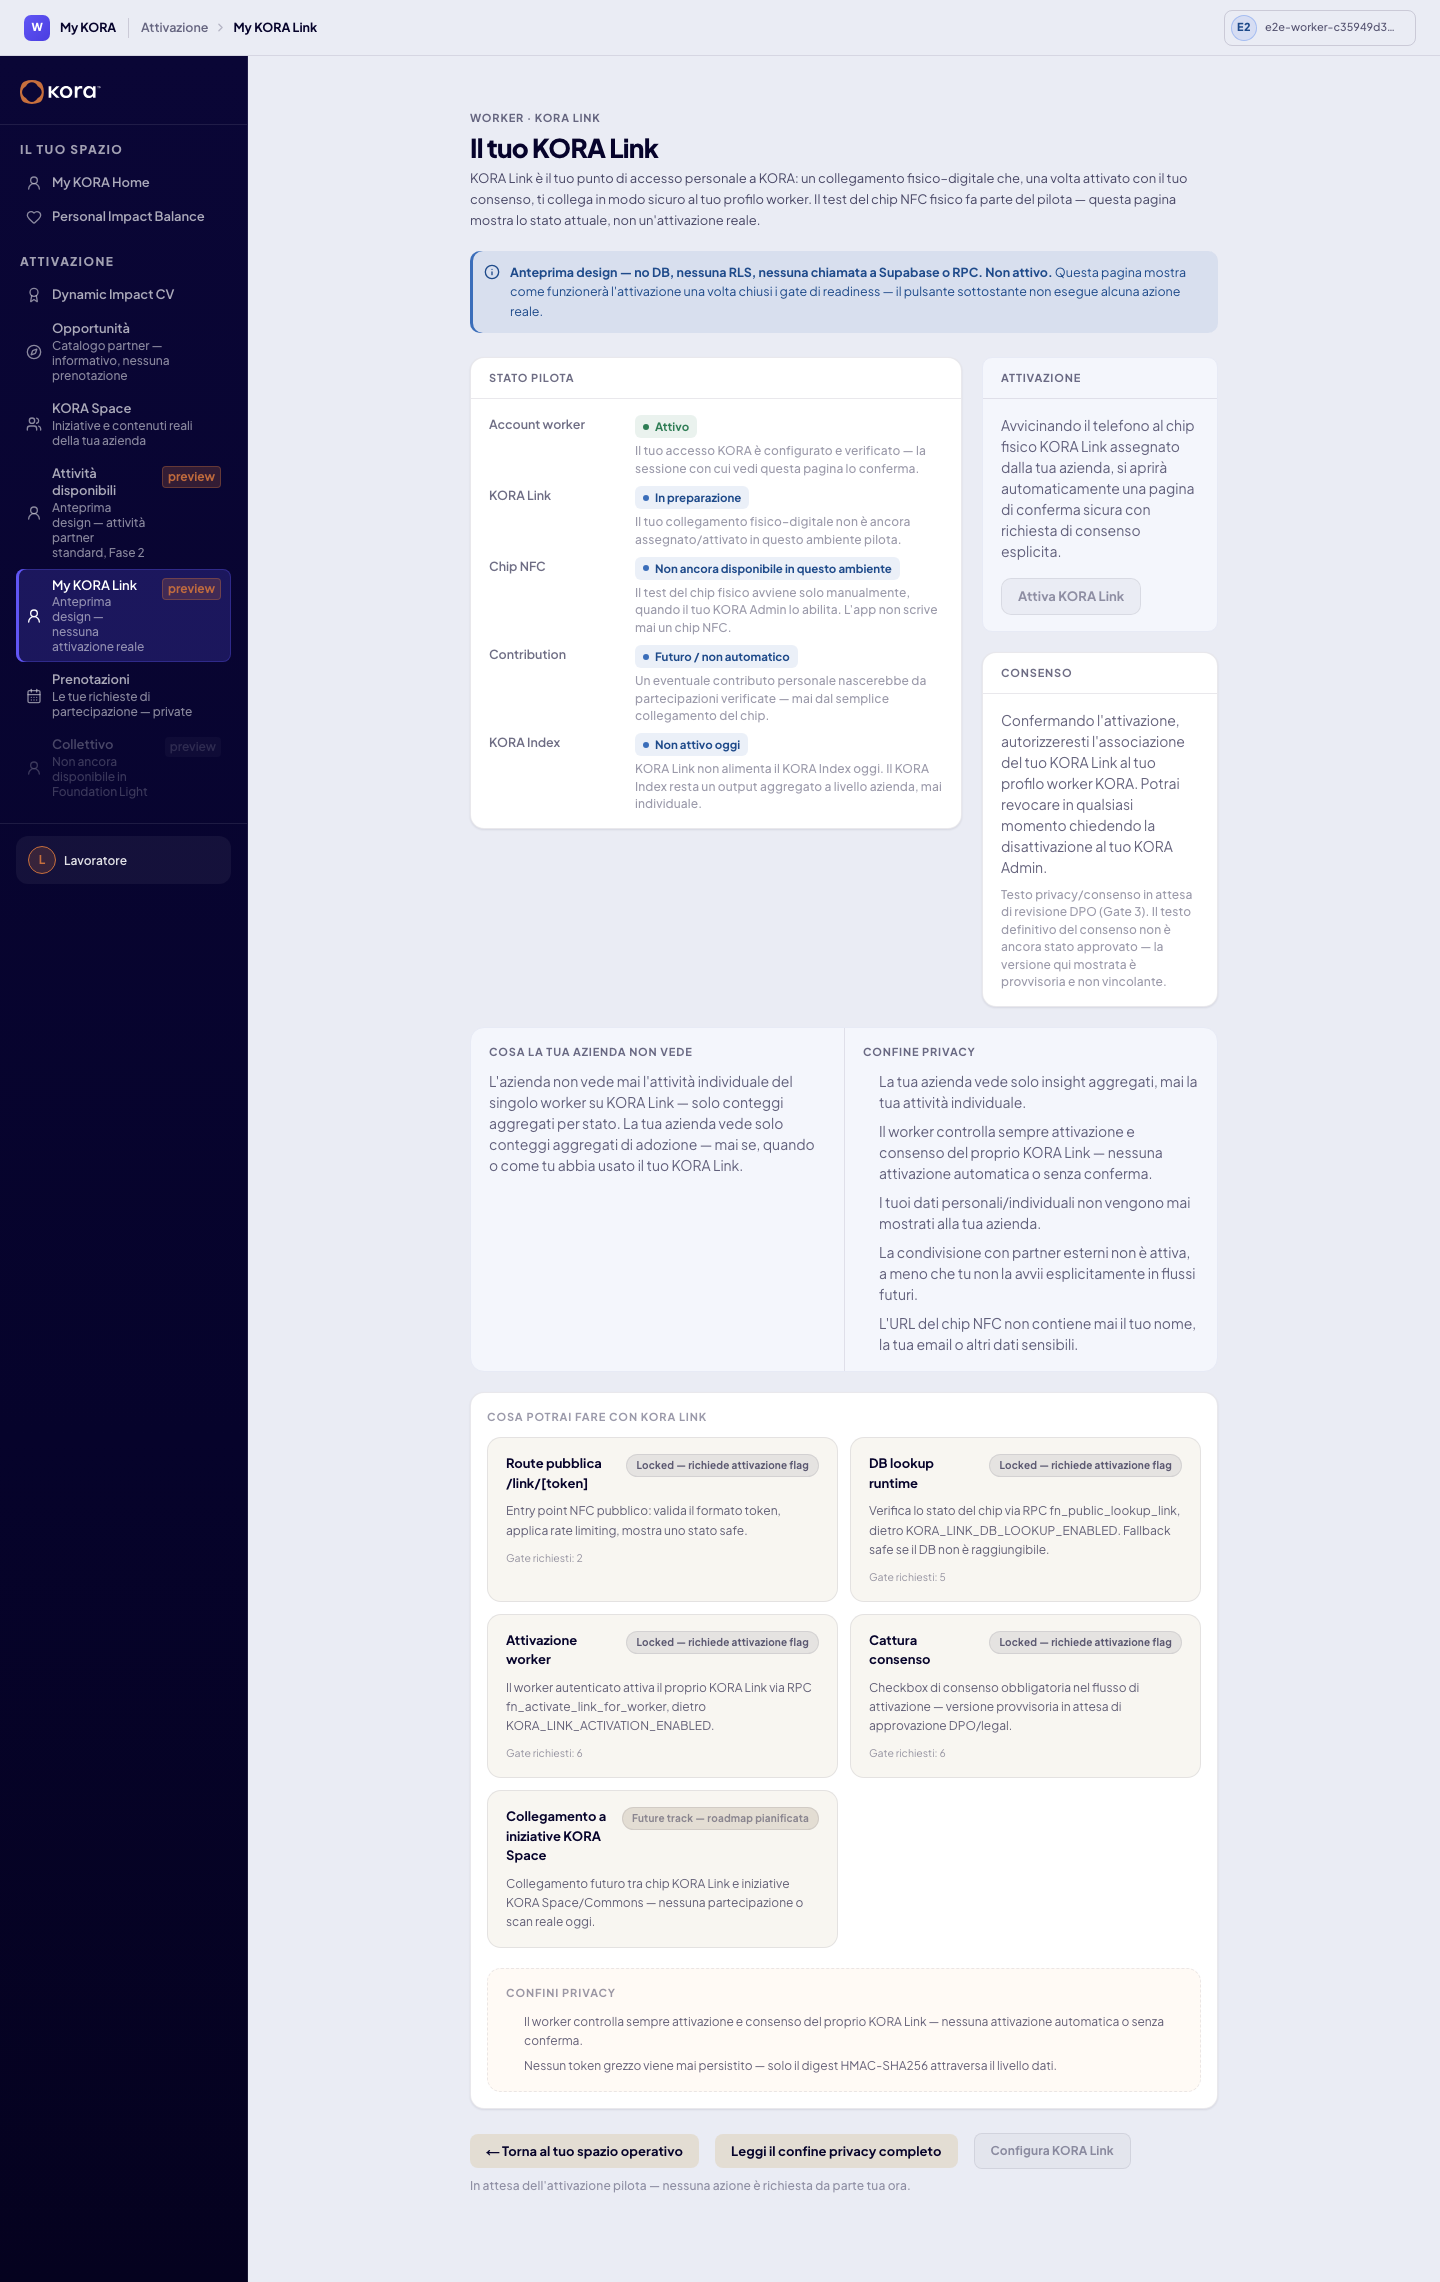
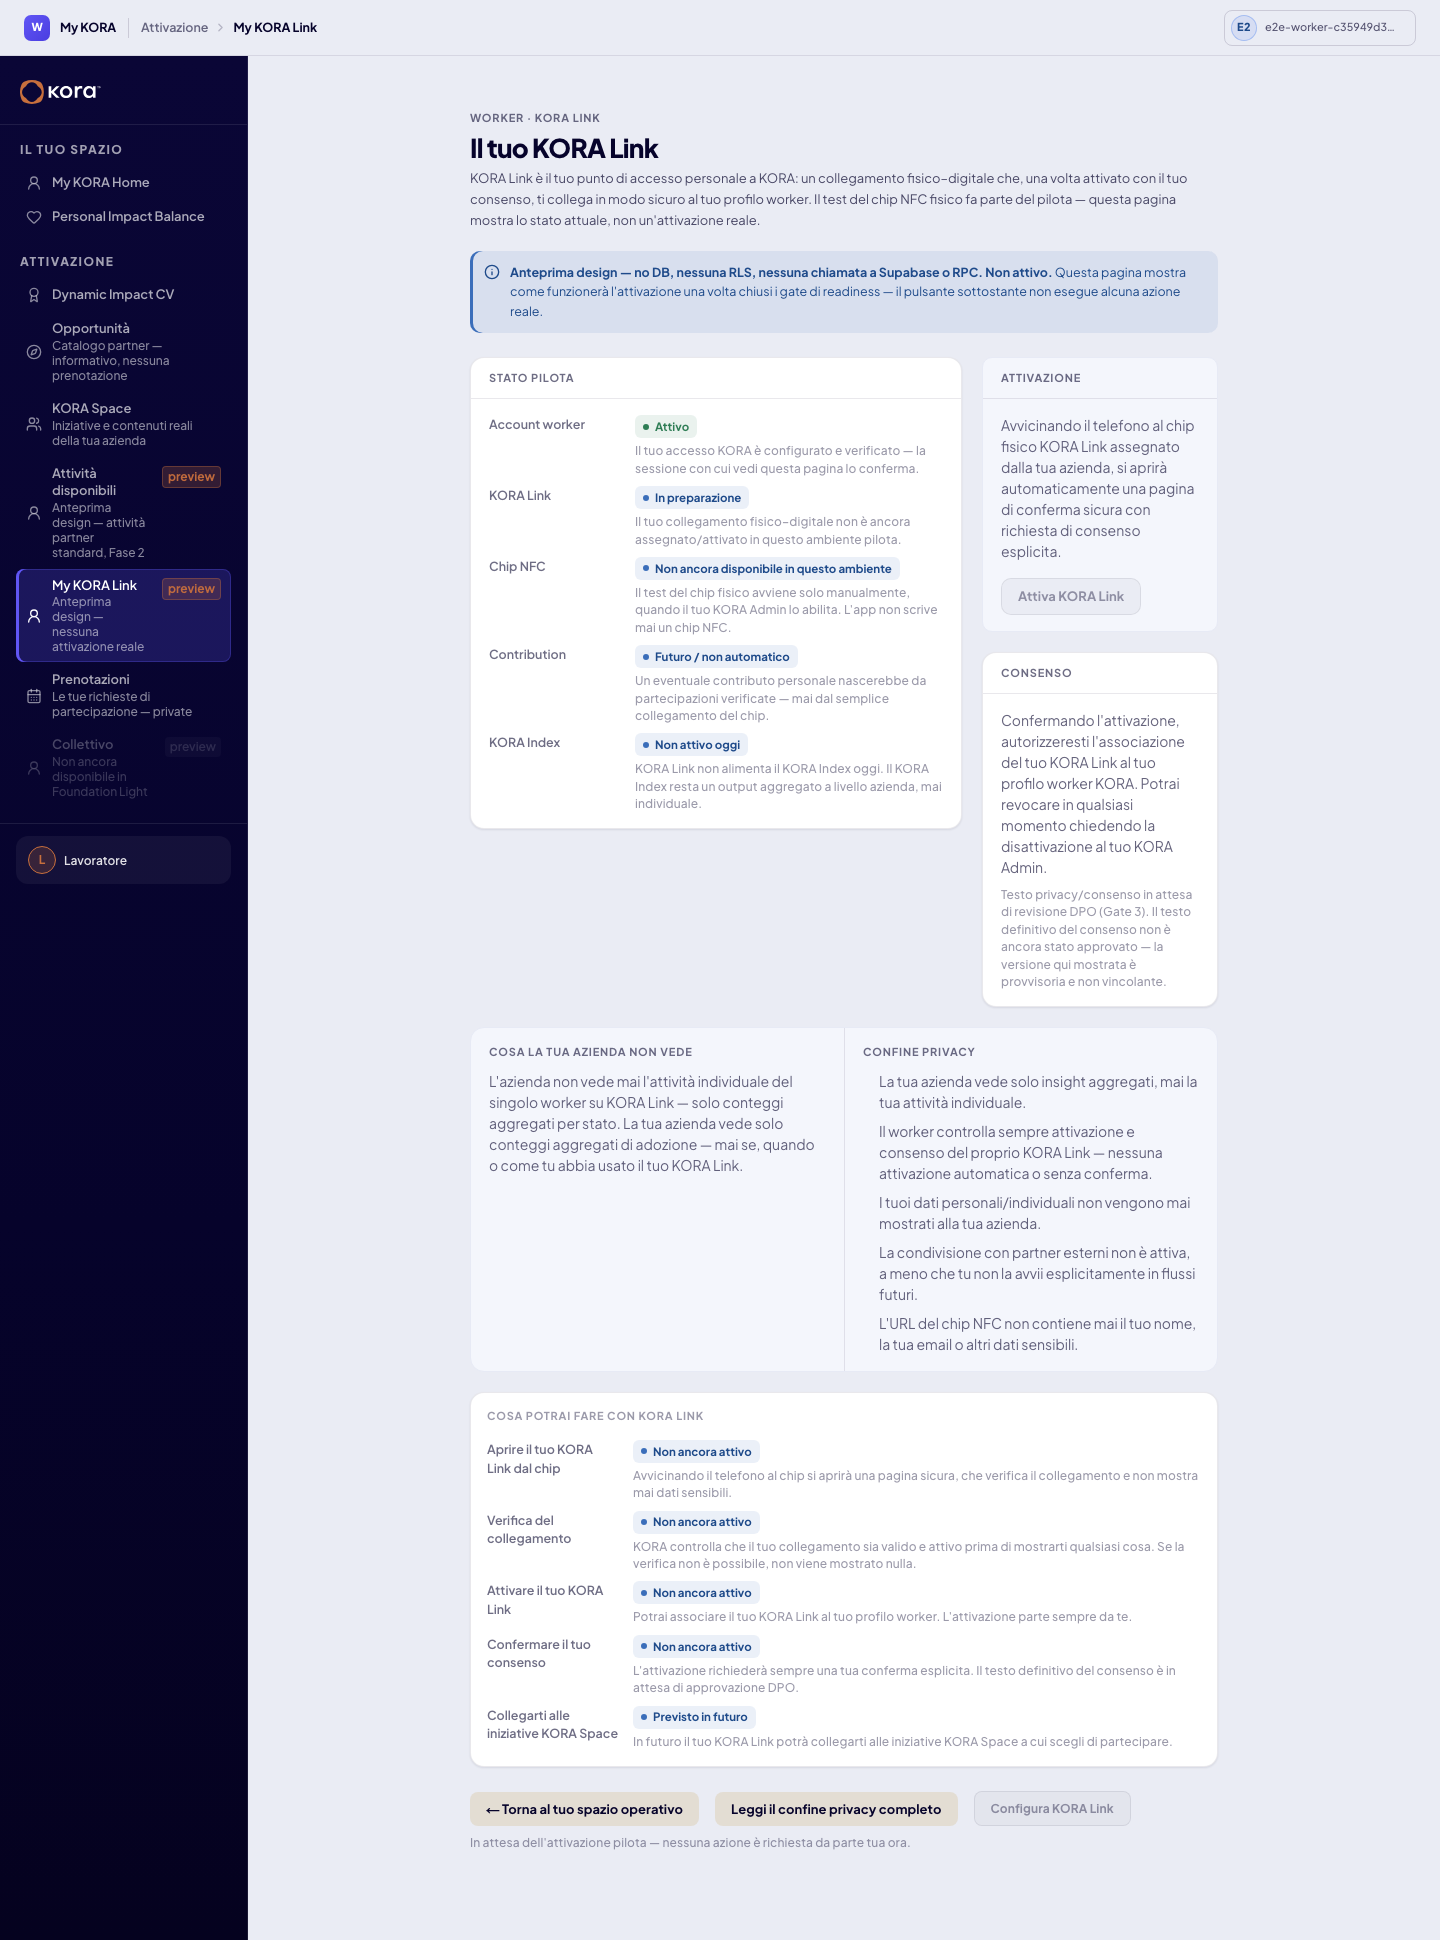
feat(px): KORA-WP-129 W1 — Worker-facing KORA Link capability presentation
Founder accepted activity-discovery and activity-discovery/detail at caadb10 and
required targeted remediation of "COSA POTRAI FARE CON KORA LINK", whose five
cards exposed implementation architecture rather than Worker capability meaning.
caadb10 stays in ancestry as the partially accepted second visual candidate.

CONTRACT ANALYSIS FIRST. The five records live in lib/kora-link/ecosystem.ts as
KORA_LINK_CAPABILITIES, each carrying ONE label and ONE description for every
role, both authored in implementation language: route paths, RPC names,
feature-flag names, fallback behaviour. KoraLinkCapabilityCard takes only
`capability` — there is NO presentation hook, and no prop analogous to
showReadiness. So options 1 and 2 of the preferred order were unavailable, and
the smallest truthful solution is option 3: an additive Worker-only presentation
mapping at the Worker call site.

Role consumers, computed not assumed: all five are shared with `admin`;
space_initiative_linking also with `space`. Company renders only
company_aggregate_visibility and Partner only partner_verified_scan — neither
renders ANY of these five records, so no Company or Partner output can be
affected by a Worker presentation change.

WHAT CHANGED. The Worker page stops calling KoraLinkRoleDashboard and composes
its own capability block from the same shared truth: every row is still driven by
the shared `id` and the shared derived `state`. WORKER_CAPABILITY_MEANING and
[…]

diff --git a/app/worker/kora-link/activate/page.tsx b/app/worker/kora-link/activate/page.tsx
@@ -18,8 +18,9 @@ import {
   getKoraLinkEcosystemContext,
   getKoraLinkRoleSummary,
   KORA_LINK_PRIVACY_BOUNDARIES,
+  type KoraLinkCapabilityId,
+  type KoraLinkCapabilityState,
 } from '@/lib/kora-link/ecosystem';
-import { KoraLinkRoleDashboard } from '@/components/kora-link/KoraLinkRoleDashboard';
 
 export const metadata = { title: 'Il tuo KORA Link · KORA' };
 
@@ -56,6 +57,57 @@ function statusRow(
     </>
   )];
 }
+
+// WORKER-FACING PROJECTION of the shared capability truth.
+//
+// KORA-WP-129 W1, Founder review 2 finding: the shared capability records carry
+// ONE label and ONE description for every role, and both are authored in
+// implementation language — route paths, RPC names, feature-flag names, gate
+// counts, fallback behaviour. That is correct for the Admin surfaces that also
+// consume these records; it is the wrong information hierarchy for a worker,
+// who needs to know WHAT the link will let them do, not HOW it is built.
+//
+// This map is ADDITIVE and Worker-only. It changes no capability identity, no
+// `roles`, no `requiredGates`, no flag, no RPC and no state: the `id` and the
+// derived `state` below still come from the shared model, and every row is
+// rendered from it. Only the human-readable wording is role-appropriate.
+// `KoraLinkRoleDashboard` is unchanged and still serves Company, Partner and
+// Admin — which render NONE of these five records (their own capability sets are
+// `company_aggregate_visibility` and `partner_verified_scan`).
+const WORKER_CAPABILITY_MEANING: Partial<Record<KoraLinkCapabilityId, { name: string; meaning: string }>> = {
+  public_route: {
+    name:    'Aprire il tuo KORA Link dal chip',
+    meaning: 'Avvicinando il telefono al chip si aprirà una pagina sicura, che verifica il collegamento e non mostra mai dati sensibili.',
+  },
+  db_lookup: {
+    name:    'Verifica del collegamento',
+    meaning: 'KORA controlla che il tuo collegamento sia valido e attivo prima di mostrarti qualsiasi cosa. Se la verifica non è possibile, non viene mostrato nulla.',
+  },
+  worker_activation: {
+    name:    'Attivare il tuo KORA Link',
+    meaning: 'Potrai associare il tuo KORA Link al tuo profilo worker. L\'attivazione parte sempre da te.',
+  },
+  consent_capture: {
+    name:    'Confermare il tuo consenso',
+    meaning: 'L\'attivazione richiederà sempre una tua conferma esplicita. Il testo definitivo del consenso è in attesa di approvazione DPO.',
+  },
+  space_initiative_linking: {
+    name:    'Collegarti alle iniziative KORA Space',
+    meaning: 'In futuro il tuo KORA Link potrà collegarti alle iniziative KORA Space a cui scegli di partecipare.',
+  },
+};
+
+// Worker-facing rendering of the SHARED state value. The state itself is never
+// reinterpreted — `locked` and `requires_gate` both still mean "not available",
+// and no state is ever presented as available when it is not.
+const WORKER_STATE_WORDING: Record<KoraLinkCapabilityState, { label: string; tone: 'ok' | 'info' }> = {
+  available:     { label: 'Disponibile',                  tone: 'ok'   },
+  configured:    { label: 'Attivo in ambiente di prova',   tone: 'info' },
+  locked:        { label: 'Non ancora attivo',             tone: 'info' },
+  requires_gate: { label: 'In attesa di verifica esterna', tone: 'info' },
+  planned:       { label: 'Previsto in futuro',            tone: 'info' },
+  disabled:      { label: 'Non attivo',                    tone: 'info' },
+};
 
 export default async function WorkerKoraLinkActivatePage() {
   const auth = await requireWorkerUser();
@@ -202,26 +254,55 @@ export default async function WorkerKoraLinkActivatePage() {
                 <li style={{ ...typeStyle('secondary'), color: TOKENS.inkSecondary }}>
                   L&apos;URL del chip NFC non contiene mai il tuo nome, la tua email o altri dati sensibili.
                 </li>
+                {/* The two governed worker boundary statements were previously
+                    rendered verbatim by KoraLinkBoundaryCard, which left with the
+                    shared dashboard. Their MEANING is preserved above, in worker
+                    language, and neither guarantee is weakened:
+                      • `worker_controls_activation` is rendered VERBATIM as the
+                        second bullet (`workerBoundary.statement`).
+                      • `no_raw_token_persistence` — "solo il digest HMAC-SHA256
+                        attraversa il livello dati" — is stated as the fifth
+                        bullet instead: the NFC URL never carries the worker's
+                        name, email or other sensitive data. Rendering the
+                        original sentence here would reintroduce exactly the
+                        implementation language this remediation removes, on the
+                        one surface where a worker reads their own guarantees.
+                    Recorded for Founder decision, not decided silently. */}
               </ul>
             </SplitPart>
           </SplitRegion>
         </Band>
 
-        {/* 4. WHAT HAPPENS WHEN ACTIVATION BECOMES AVAILABLE — the shared
-            capability shell, demoted below the privacy guarantee.
-            `showReadiness={false}` is an EXISTING prop of the shared component
-            (it defaults to true): the nine internal readiness gates — Runtime
-            base, Schema 034, DPO/legal, RLS 035, Staging env, Public route
-            enablement, Worker activation, Partner scan, Production readiness —
-            are Admin governance evidence and already have governed Admin
-            surfaces. Passing the prop at THIS call site only leaves the shared
-            component, and the Company/Partner/Admin surfaces, untouched. */}
+        {/* 4. WHAT HAPPENS WHEN ACTIVATION BECOMES AVAILABLE.
+            Composed HERE rather than through KoraLinkRoleDashboard, because that
+            component exposes no presentation hook for capabilities — it takes
+            only `capability` and renders the shared implementation wording. The
+            nine internal readiness gates are gone with it; they are Admin
+            governance evidence and already have governed Admin surfaces, so
+            nothing is relocated or duplicated. The shared components and the
+            Company/Partner/Admin surfaces are untouched.
+            Five cards become five facts: hierarchy follows worker meaning. */}
         <Band>
           <div style={{ padding: `${SPACE.md}px ${SPACE.md}px` }}>
-            <KoraLinkRoleDashboard
-              summary={summary}
-              capabilitiesTitle="Cosa potrai fare con KORA Link"
-              showReadiness={false}
+            <p style={{ margin: `0 0 ${SPACE.md}px`, ...typeStyle('meta'), color: TOKENS.inkHint }}>
+              Cosa potrai fare con KORA Link
+            </p>
+            <Facts
+              rows={summary.capabilities.map((c) => {
+                const worker = WORKER_CAPABILITY_MEANING[c.id];
+                const state = WORKER_STATE_WORDING[c.state];
+                return [
+                  worker?.name ?? c.label,
+                  (
+                    <>
+                      <Status tone={state.tone}>{state.label}</Status>
+                      <span style={{ display: 'block', marginTop: SPACE.xs, ...typeStyle('caption'), color: TOKENS.inkHint }}>
+                        {worker?.meaning ?? c.description}
+                      </span>
+                    </>
+                  ),
+                ] as [string, React.ReactNode];
+              })}
             />
           </div>
         </Band>
